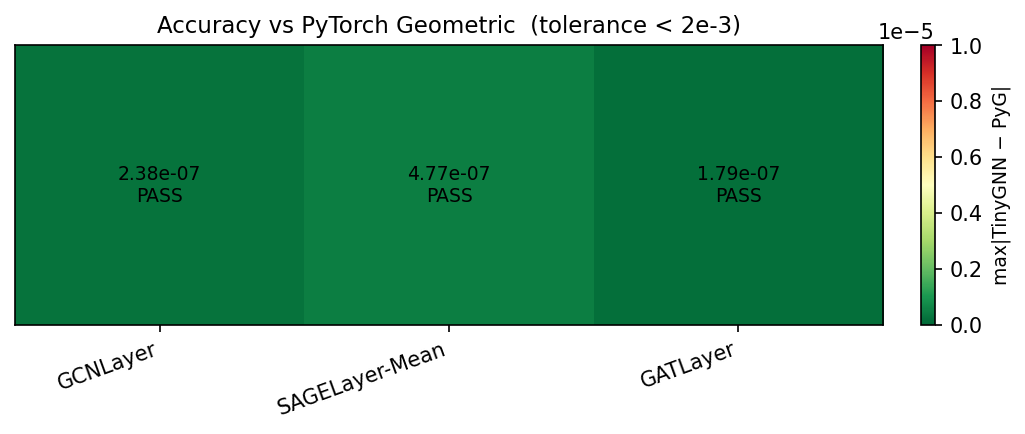
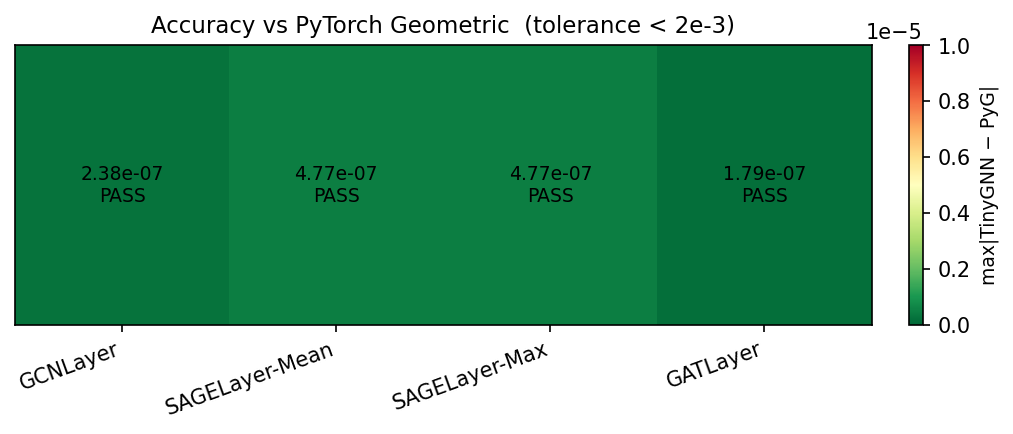
bench: add PyG SAGE-Max timing, regenerate all benchmark charts
- Add _pyg_sage_max_fwd() using SAGEConv(aggr='max') so PyG bars are
  populated for SAGE-Max in all four charts
- Rerun benchmarks (8 reps): SAGE-Max PyG now measured
  large-100K: PyG 1011 ms vs TinyGNN-NT 90 ms -> 11.3x speedup
- Accuracy: SAGELayer-Max PASS (max|diff|=4.77e-07)
- Regenerate gnn_runtime_comparison, gnn_memory_comparison,
  gnn_speedup, gnn_scaling, gnn_accuracy PNGs

diff --git a/scripts/bench_gnn.py b/scripts/bench_gnn.py
@@ -267,6 +267,28 @@ def _pyg_sage_fwd(w, F_in, F_out, edge_index, H_torch, pyg_cls):
         with torch.no_grad(): conv(H_torch, edge_index)
     return _f
 
+def _pyg_sage_max_fwd(w, F_in, F_out, edge_index, H_torch, pyg_cls):
+    """PyG SAGEConv with max aggregation — matches TinyGNN SAGE-Max.
+
+    PyG SAGEConv(aggr='max') computes:
+        h_agg_i = max_{j in N(i)} h_j   (component-wise, raw features)
+        out_i   = lin_l(h_agg_i) + lin_r(h_i) + bias
+    which is identical to TinyGNN's SAGE-Max: max_agg @ Wn + H @ Ws + b.
+    """
+    torch, _, SAGEConv, _ = pyg_cls
+    conv = SAGEConv(F_in, F_out, bias=True, aggr="max", normalize=False,
+                   root_weight=True)
+    with torch.no_grad():
+        # lin_l transforms the max-aggregated neighbor vector  → Wn
+        # lin_r transforms the self feature vector             → Ws
+        conv.lin_l.weight.copy_(torch.from_numpy(w["Wn"].T))
+        conv.lin_r.weight.copy_(torch.from_numpy(w["Ws"].T))
+        conv.lin_l.bias.copy_(torch.from_numpy(w["b"].flatten()))
+    def _f():
+        with torch.no_grad(): conv(H_torch, edge_index)
+    return _f
+
+
 def _pyg_gat_fwd(w, F_in, F_out, edge_index, H_torch, pyg_cls):
     torch, _, _, GATConv = pyg_cls
     conv = GATConv(F_in, F_out, heads=1, bias=True, negative_slope=0.2,
@@ -340,6 +362,18 @@ def run_accuracy(pyg_cls) -> List[Dict]:
     with torch.no_grad(): out_pyg = conv(H_t, ei).numpy()
     _chk("SAGELayer-Mean", out_tg, out_pyg)
 
+    # SAGE-Max
+    w = _sage_weights(F_in, F_out, seed)
+    ly = make_tg_sage(w, F_in, F_out, tg.SAGELayer.Aggregator.Max)
+    out_tg = ly.forward(A_tg, H_tg).to_numpy()
+    conv = SAGEConv(F_in, F_out, bias=True, aggr="max", normalize=False, root_weight=True)
+    with torch.no_grad():
+        conv.lin_l.weight.copy_(torch.from_numpy(w["Wn"].T))  # lin_l → neighbor max-agg
+        conv.lin_r.weight.copy_(torch.from_numpy(w["Ws"].T))  # lin_r → self
+        conv.lin_l.bias.copy_(torch.from_numpy(w["b"].flatten()))
+    with torch.no_grad(): out_pyg = conv(H_t, ei).numpy()
+    _chk("SAGELayer-Max", out_tg, out_pyg)
+
     # GAT
     w = _gat_weights(F_in, F_out, seed)
     ly = make_tg_gat(w, F_in, F_out)
@@ -409,7 +443,7 @@ def run_benchmarks(reps: int, pyg_cls) -> List[Dict]:
              lambda w, fi, fo: _pyg_sage_fwd(w, fi, fo, ei, H_t, pyg_cls)),
             ("SAGE-Max",  _sage_weights,
              lambda w, fi, fo: make_tg_sage(w, fi, fo, tg.SAGELayer.Aggregator.Max),  A_tg,
-             None),
+             lambda w, fi, fo: _pyg_sage_max_fwd(w, fi, fo, ei, H_t, pyg_cls)),
             ("GAT",       _gat_weights,
              lambda w, fi, fo: make_tg_gat(w, fi, fo),  A_sl,
              lambda w, fi, fo: _pyg_gat_fwd(w, fi, fo, ei, H_t, pyg_cls)),
